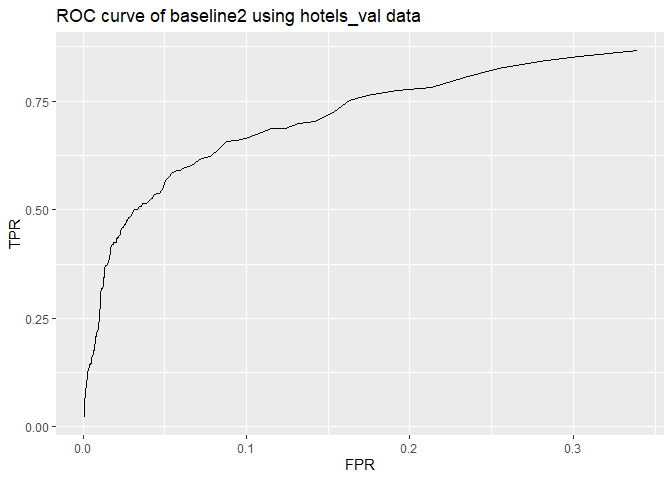
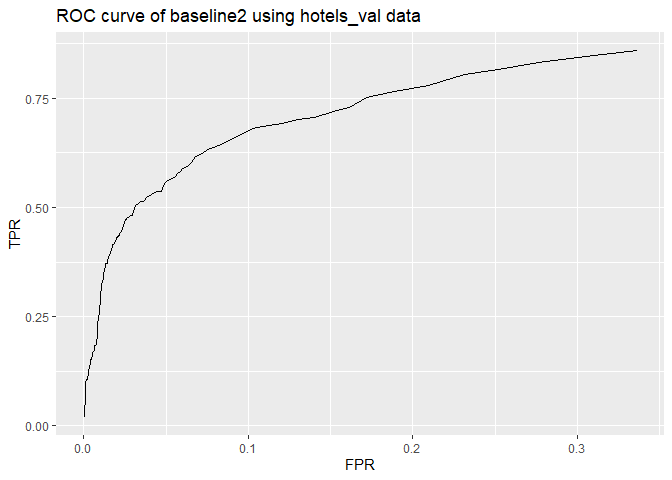
Final

diff --git a/HW2_RM.md b/HW2_RM.md
@@ -1,20 +1,16 @@
 ## Question 1. Data Visualization
 
-![](HW2_RM_files/figure-markdown_strict/unnamed-chunk-3-1.png) ## On
-weekdays, the average number of boardings is roughly the same, and on
-weekends, it drops as expected. On weekdays, the peak hour of boarding
-numbers remains consistent between 3 and 5 pm for all three months,
-owing to the fact that classes normally complete around that time. The
-average boardings on Mondays in September are lower due to Labor Day,
-which falls on the first Monday of the month, and those on Wednesdays,
-Thursdays, and Fridays in November due to the Thanksgiving holidays)
+![](HW2_RM_files/figure-markdown_strict/unnamed-chunk-3-1.png)
 
-![](HW2_RM_files/figure-markdown_strict/unnamed-chunk-5-1.png) ##
-Question 2. Saratoga house prices
+# On weekdays, the average number of boardings is roughly the same, and on weekends, it drops as expected. On weekdays, the peak hour of boarding numbers remains consistent between 3 and 5 pm for all three months, owing to the fact that classes normally complete around that time. The average boardings on Mondays in September are lower due to Labor Day, which falls on the first Monday of the month, and those on Wednesdays, Thursdays, and Fridays in November due to the Thanksgiving holidays)
 
-## The linear model seems better at achieving lower out-of sample mean-squared error. This model is particularly useful since it allows us to identify which variables have a substantial impact on property prices. House prices are influenced by factors such as lot size, land value, living area, waterfront, and central air conditioning. All of them have a positive relationship with home prices.
+![](HW2_RM_files/figure-markdown_strict/unnamed-chunk-5-1.png)
 
-## Output for linear regression model is as follows:
+## Question 2. Saratoga house prices
+
+# The linear model seems better at achieving lower out-of sample mean-squared error. This model is particularly useful since it allows us to identify which variables have a substantial impact on property prices. House prices are influenced by factors such as lot size, land value, living area, waterfront, and central air conditioning. All of them have a positive relationship with home prices.
+
+# Output for linear regression model is as follows:
 
     ## 
     ## Call:
@@ -23,48 +19,48 @@ Question 2. Saratoga house prices
     ## 
     ## Residuals:
     ##     Min      1Q  Median      3Q     Max 
-    ## -230160  -35021   -5491   27874  459587 
+    ## -228042  -35648   -5116   28079  459564 
     ## 
     ## Coefficients:
     ##                          Estimate Std. Error t value Pr(>|t|)    
-    ## (Intercept)             1.983e+05  2.269e+04   8.742  < 2e-16 ***
-    ## lotSize                 8.102e+03  2.253e+03   3.596 0.000333 ***
-    ## age                    -8.154e+01  6.139e+01  -1.328 0.184344    
-    ## landValue               8.559e-01  4.961e-02  17.253  < 2e-16 ***
-    ## livingArea              6.522e+01  5.062e+00  12.885  < 2e-16 ***
-    ## bedrooms               -7.803e+03  2.776e+03  -2.810 0.005010 ** 
-    ## fireplaces              3.358e+03  3.180e+03   1.056 0.291261    
-    ## bathrooms               2.507e+03  8.080e+03   0.310 0.756352    
-    ## rooms                  -2.372e+03  2.197e+03  -1.079 0.280557    
-    ## heatinghot water/steam -8.652e+03  4.490e+03  -1.927 0.054182 .  
-    ## heatingelectric        -2.308e+03  1.264e+04  -0.183 0.855194    
-    ## fuelelectric           -7.484e+03  1.241e+04  -0.603 0.546642    
-    ## fueloil                -4.187e+03  5.082e+03  -0.824 0.410168    
-    ## waterfrontNo           -1.250e+05  1.581e+04  -7.906 5.03e-15 ***
-    ## centralAirNo           -1.221e+04  3.702e+03  -3.297 0.001001 ** 
-    ## bathrooms:rooms         2.693e+03  1.011e+03   2.662 0.007842 ** 
+    ## (Intercept)             1.956e+05  2.299e+04   8.508  < 2e-16 ***
+    ## lotSize                 7.471e+03  2.376e+03   3.144  0.00170 ** 
+    ## age                    -7.902e+01  6.020e+01  -1.313  0.18954    
+    ## landValue               8.468e-01  4.924e-02  17.198  < 2e-16 ***
+    ## livingArea              6.371e+01  4.897e+00  13.010  < 2e-16 ***
+    ## bedrooms               -7.814e+03  2.694e+03  -2.900  0.00378 ** 
+    ## fireplaces              4.092e+03  3.061e+03   1.337  0.18148    
+    ## bathrooms               3.400e+03  7.946e+03   0.428  0.66883    
+    ## rooms                  -1.736e+03  2.157e+03  -0.805  0.42087    
+    ## heatinghot water/steam -9.351e+03  4.349e+03  -2.150  0.03171 *  
+    ## heatingelectric        -3.960e+03  1.407e+04  -0.281  0.77843    
+    ## fuelelectric           -4.961e+03  1.388e+04  -0.357  0.72082    
+    ## fueloil                -6.032e+03  5.014e+03  -1.203  0.22909    
+    ## waterfrontNo           -1.276e+05  1.656e+04  -7.706 2.32e-14 ***
+    ## centralAirNo           -9.585e+03  3.601e+03  -2.662  0.00785 ** 
+    ## bathrooms:rooms         2.669e+03  9.934e+02   2.686  0.00730 ** 
     ## ---
     ## Signif. codes:  0 '***' 0.001 '**' 0.01 '*' 0.05 '.' 0.1 ' ' 1
     ## 
-    ## Residual standard error: 59500 on 1539 degrees of freedom
-    ## Multiple R-squared:  0.645,  Adjusted R-squared:  0.6415 
-    ## F-statistic: 186.4 on 15 and 1539 DF,  p-value: < 2.2e-16
+    ## Residual standard error: 58030 on 1539 degrees of freedom
+    ## Multiple R-squared:  0.6542, Adjusted R-squared:  0.6508 
+    ## F-statistic: 194.1 on 15 and 1539 DF,  p-value: < 2.2e-16
 
 ## Question 3. Classification and retrospective sampling
 
 ![](HW2_RM_files/figure-markdown_strict/unnamed-chunk-11-1.png)
 
     ##         (Intercept)            duration              amount         installment 
-    ##                0.37                1.02                1.00                1.22 
+    ##                0.52                1.03                1.00                1.20 
     ##                 age         historypoor     historyterrible          purposeedu 
-    ##                0.99                0.36                0.20                1.83 
+    ##                0.97                0.37                0.20                2.37 
     ## purposegoods/repair       purposenewcar      purposeusedcar       foreigngerman 
-    ##                1.13                2.18                0.44                0.32
+    ##                0.97                2.52                0.51                0.49
 
     ##    yhat
     ## y     0   1
-    ##   0 153   8
-    ##   1  59  30
+    ##   0 165  14
+    ##   1  57  14
 
 <table>
 <thead>
@@ -93,7 +89,7 @@ Question 2. Saratoga house prices
 </tbody>
 </table>
 
-## The ‘historypoor’ variable multiplies odds of default by 0.39 in this logistic regression model, while the ‘historyterrible’ variable multiplies odds of default by 0.19. This means that having poor or terrible credit actually decreases the probability of default. This contradicts common sense; we believe the dataset is insufficient for developing a predictive model of defaults, particularly if the program’s goal is to screen potential borrowers and identify them as having a “high” or “low” risk of default. It’s due to the data sampling procedure. Instead of random sample, the bank chose defaulted loans and looked for similar loans during the data sampling procedure. This most certainly resulted in a significant bias in the data collection process: as previously stated, defaulted loans are likely to have low or horrible credit histories, and there would be insufficient datasets with good credit histories. In fact, just 89 observations out of 1000 had a decent credit history. Even though there would be a small number of defaulted loans, I would advise the bank to employ a random sample method. Increasing the size of the observations, if possible, will be really beneficial.
+# The ‘historypoor’ variable multiplies odds of default by 0.39 in this logistic regression model, while the ‘historyterrible’ variable multiplies odds of default by 0.19. This means that having poor or terrible credit actually decreases the probability of default. This contradicts common sense; we believe the dataset is insufficient for developing a predictive model of defaults, particularly if the program’s goal is to screen potential borrowers and identify them as having a “high” or “low” risk of default. It’s due to the data sampling procedure. Instead of random sample, the bank chose defaulted loans and looked for similar loans during the data sampling procedure. This most certainly resulted in a significant bias in the data collection process: as previously stated, defaulted loans are likely to have low or horrible credit histories, and there would be insufficient datasets with good credit histories. In fact, just 89 observations out of 1000 had a decent credit history. Even though there would be a small number of defaulted loans, I would advise the bank to employ a random sample method. Increasing the size of the observations, if possible, will be really beneficial.
 
 ## Question 4. Children and hotel reservations
 
@@ -115,14 +111,14 @@ Question 2. Saratoga house prices
 </tr>
 <tr class="even">
 <td style="text-align: left;">baseline2</td>
-<td style="text-align: right;">0.0506190</td>
-<td style="text-align: right;">0.0015956</td>
+<td style="text-align: right;">0.0517194</td>
+<td style="text-align: right;">0.0016197</td>
 <td style="text-align: right;">0.7</td>
 </tr>
 <tr class="odd">
 <td style="text-align: left;">LPM</td>
-<td style="text-align: right;">0.0275103</td>
-<td style="text-align: right;">0.0008703</td>
+<td style="text-align: right;">0.0288858</td>
+<td style="text-align: right;">0.0007978</td>
 <td style="text-align: right;">0.7</td>
 </tr>
 <tr class="even">
@@ -133,32 +129,32 @@ Question 2. Saratoga house prices
 </tr>
 <tr class="odd">
 <td style="text-align: left;">baseline2</td>
-<td style="text-align: right;">0.0830812</td>
-<td style="text-align: right;">0.0032153</td>
+<td style="text-align: right;">0.0833563</td>
+<td style="text-align: right;">0.0029010</td>
 <td style="text-align: right;">0.5</td>
 </tr>
 <tr class="even">
 <td style="text-align: left;">LPM</td>
-<td style="text-align: right;">0.0822558</td>
-<td style="text-align: right;">0.0037713</td>
+<td style="text-align: right;">0.0850069</td>
+<td style="text-align: right;">0.0035054</td>
 <td style="text-align: right;">0.5</td>
 </tr>
 <tr class="odd">
 <td style="text-align: left;">baseline1</td>
-<td style="text-align: right;">0.0002751</td>
+<td style="text-align: right;">0.0000000</td>
 <td style="text-align: right;">0.0000242</td>
 <td style="text-align: right;">0.2</td>
 </tr>
 <tr class="even">
 <td style="text-align: left;">baseline2</td>
-<td style="text-align: right;">0.1298487</td>
-<td style="text-align: right;">0.0117007</td>
+<td style="text-align: right;">0.1259972</td>
+<td style="text-align: right;">0.0109513</td>
 <td style="text-align: right;">0.2</td>
 </tr>
 <tr class="odd">
 <td style="text-align: left;">LPM</td>
-<td style="text-align: right;">0.1243466</td>
-<td style="text-align: right;">0.0124260</td>
+<td style="text-align: right;">0.1215956</td>
+<td style="text-align: right;">0.0117732</td>
 <td style="text-align: right;">0.2</td>
 </tr>
 </tbody>
@@ -166,10 +162,10 @@ Question 2. Saratoga house prices
 
 ## This table has the TPR and FPR of the models when the threshold is set at 0.7, 0.5, and 0.2. Across various threshold values, baseline 1 displays low TPRs. We can see that the baseline 2 and LPM has higher TPRs. We choose baseline2 for further analysis.
 
-## Step 1 for Model validation
+\*\* Step 1 for Model validation
 
-![](HW2_RM_files/figure-markdown_strict/unnamed-chunk-20-1.png) ## Step
-2 for Model validation
+![](HW2_RM_files/figure-markdown_strict/unnamed-chunk-20-1.png) \*\*
+Step 2 for Model validation
 
 <table>
 <thead>
@@ -183,27 +179,27 @@ Question 2. Saratoga house prices
 <tbody>
 <tr class="odd">
 <td style="text-align: left;">Fold01</td>
-<td style="text-align: left;">19</td>
-<td style="text-align: left;">17</td>
-<td style="text-align: left;">-2</td>
-</tr>
-<tr class="even">
-<td style="text-align: left;">Fold02</td>
-<td style="text-align: left;">20</td>
-<td style="text-align: left;">15</td>
-<td style="text-align: left;">-5</td>
-</tr>
-<tr class="odd">
-<td style="text-align: left;">Fold03</td>
 <td style="text-align: left;">21</td>
 <td style="text-align: left;">19</td>
 <td style="text-align: left;">-2</td>
 </tr>
 <tr class="even">
+<td style="text-align: left;">Fold02</td>
+<td style="text-align: left;">19</td>
+<td style="text-align: left;">13</td>
+<td style="text-align: left;">-6</td>
+</tr>
+<tr class="odd">
+<td style="text-align: left;">Fold03</td>
+<td style="text-align: left;">21</td>
+<td style="text-align: left;">18</td>
+<td style="text-align: left;">-3</td>
+</tr>
+<tr class="even">
 <td style="text-align: left;">Fold04</td>
-<td style="text-align: left;">22</td>
-<td style="text-align: left;">22</td>
-<td style="text-align: left;">0</td>
+<td style="text-align: left;">20</td>
+<td style="text-align: left;">19</td>
+<td style="text-align: left;">-1</td>
 </tr>
 <tr class="odd">
 <td style="text-align: left;">Fold05</td>
@@ -213,101 +209,101 @@ Question 2. Saratoga house prices
 </tr>
 <tr class="even">
 <td style="text-align: left;">Fold06</td>
+<td style="text-align: left;">21</td>
 <td style="text-align: left;">20</td>
-<td style="text-align: left;">20</td>
-<td style="text-align: left;">0</td>
+<td style="text-align: left;">-1</td>
 </tr>
 <tr class="odd">
 <td style="text-align: left;">Fold07</td>
 <td style="text-align: left;">22</td>
-<td style="text-align: left;">25</td>
-<td style="text-align: left;">3</td>
+<td style="text-align: left;">26</td>
+<td style="text-align: left;">4</td>
 </tr>
 <tr class="even">
 <td style="text-align: left;">Fold08</td>
-<td style="text-align: left;">19</td>
-<td style="text-align: left;">13</td>
-<td style="text-align: left;">-6</td>
-</tr>
-<tr class="odd">
-<td style="text-align: left;">Fold09</td>
-<td style="text-align: left;">21</td>
-<td style="text-align: left;">26</td>
-<td style="text-align: left;">5</td>
-</tr>
-<tr class="even">
-<td style="text-align: left;">Fold10</td>
-<td style="text-align: left;">22</td>
 <td style="text-align: left;">20</td>
+<td style="text-align: left;">18</td>
 <td style="text-align: left;">-2</td>
 </tr>
 <tr class="odd">
-<td style="text-align: left;">Fold11</td>
+<td style="text-align: left;">Fold09</td>
 <td style="text-align: left;">20</td>
-<td style="text-align: left;">22</td>
-<td style="text-align: left;">2</td>
+<td style="text-align: left;">19</td>
+<td style="text-align: left;">-1</td>
+</tr>
+<tr class="even">
+<td style="text-align: left;">Fold10</td>
+<td style="text-align: left;">18</td>
+<td style="text-align: left;">21</td>
+<td style="text-align: left;">3</td>
+</tr>
+<tr class="odd">
+<td style="text-align: left;">Fold11</td>
+<td style="text-align: left;">21</td>
+<td style="text-align: left;">21</td>
+<td style="text-align: left;">0</td>
 </tr>
 <tr class="even">
 <td style="text-align: left;">Fold12</td>
-<td style="text-align: left;">23</td>
-<td style="text-align: left;">20</td>
-<td style="text-align: left;">-3</td>
+<td style="text-align: left;">19</td>
+<td style="text-align: left;">21</td>
+<td style="text-align: left;">2</td>
 </tr>
 <tr class="odd">
 <td style="text-align: left;">Fold13</td>
-<td style="text-align: left;">18</td>
-<td style="text-align: left;">20</td>
-<td style="text-align: left;">2</td>
+<td style="text-align: left;">22</td>
+<td style="text-align: left;">14</td>
+<td style="text-align: left;">-8</td>
 </tr>
 <tr class="even">
 <td style="text-align: left;">Fold14</td>
-<td style="text-align: left;">23</td>
+<td style="text-align: left;">19</td>
 <td style="text-align: left;">15</td>
-<td style="text-align: left;">-8</td>
+<td style="text-align: left;">-4</td>
 </tr>
 <tr class="odd">
 <td style="text-align: left;">Fold15</td>
 <td style="text-align: left;">19</td>
-<td style="text-align: left;">18</td>
-<td style="text-align: left;">-1</td>
+<td style="text-align: left;">22</td>
+<td style="text-align: left;">3</td>
 </tr>
 <tr class="even">
 <td style="text-align: left;">Fold16</td>
-<td style="text-align: left;">23</td>
-<td style="text-align: left;">26</td>
-<td style="text-align: left;">3</td>
+<td style="text-align: left;">21</td>
+<td style="text-align: left;">28</td>
+<td style="text-align: left;">7</td>
 </tr>
 <tr class="odd">
 <td style="text-align: left;">Fold17</td>
-<td style="text-align: left;">19</td>
-<td style="text-align: left;">22</td>
-<td style="text-align: left;">3</td>
+<td style="text-align: left;">20</td>
+<td style="text-align: left;">24</td>
+<td style="text-align: left;">4</td>
 </tr>
 <tr class="even">
 <td style="text-align: left;">Fold18</td>
-<td style="text-align: left;">26</td>
-<td style="text-align: left;">25</td>
-<td style="text-align: left;">-1</td>
-</tr>
-<tr class="odd">
-<td style="text-align: left;">Fold19</td>
 <td style="text-align: left;">22</td>
-<td style="text-align: left;">19</td>
-<td style="text-align: left;">-3</td>
-</tr>
-<tr class="even">
-<td style="text-align: left;">Fold20</td>
-<td style="text-align: left;">18</td>
-<td style="text-align: left;">20</td>
+<td style="text-align: left;">24</td>
 <td style="text-align: left;">2</td>
 </tr>
 <tr class="odd">
+<td style="text-align: left;">Fold19</td>
+<td style="text-align: left;">26</td>
+<td style="text-align: left;">24</td>
+<td style="text-align: left;">-2</td>
+</tr>
+<tr class="even">
+<td style="text-align: left;">Fold20</td>
+<td style="text-align: left;">22</td>
+<td style="text-align: left;">18</td>
+<td style="text-align: left;">-4</td>
+</tr>
+<tr class="odd">
 <td style="text-align: left;">Total</td>
-<td style="text-align: left;">417</td>
+<td style="text-align: left;">413</td>
 <td style="text-align: left;">402</td>
-<td style="text-align: left;">15</td>
+<td style="text-align: left;">11</td>
 </tr>
 </tbody>
 </table>
 
-## The model does the prediction pretty well. It only got 15 predictions wrong in total out of 4999 observations though if you look at each folds individually there is a difference as in sometimes we have negative and sometimes positive values, but in total it all averages out to 15.
+# The model does the prediction pretty well. It only got 11 predictions wrong in total out of 4999 observations though if you look at each folds individually there is a difference as in sometimes we have negative and sometimes positive values, but in total it all averages out to 11.
